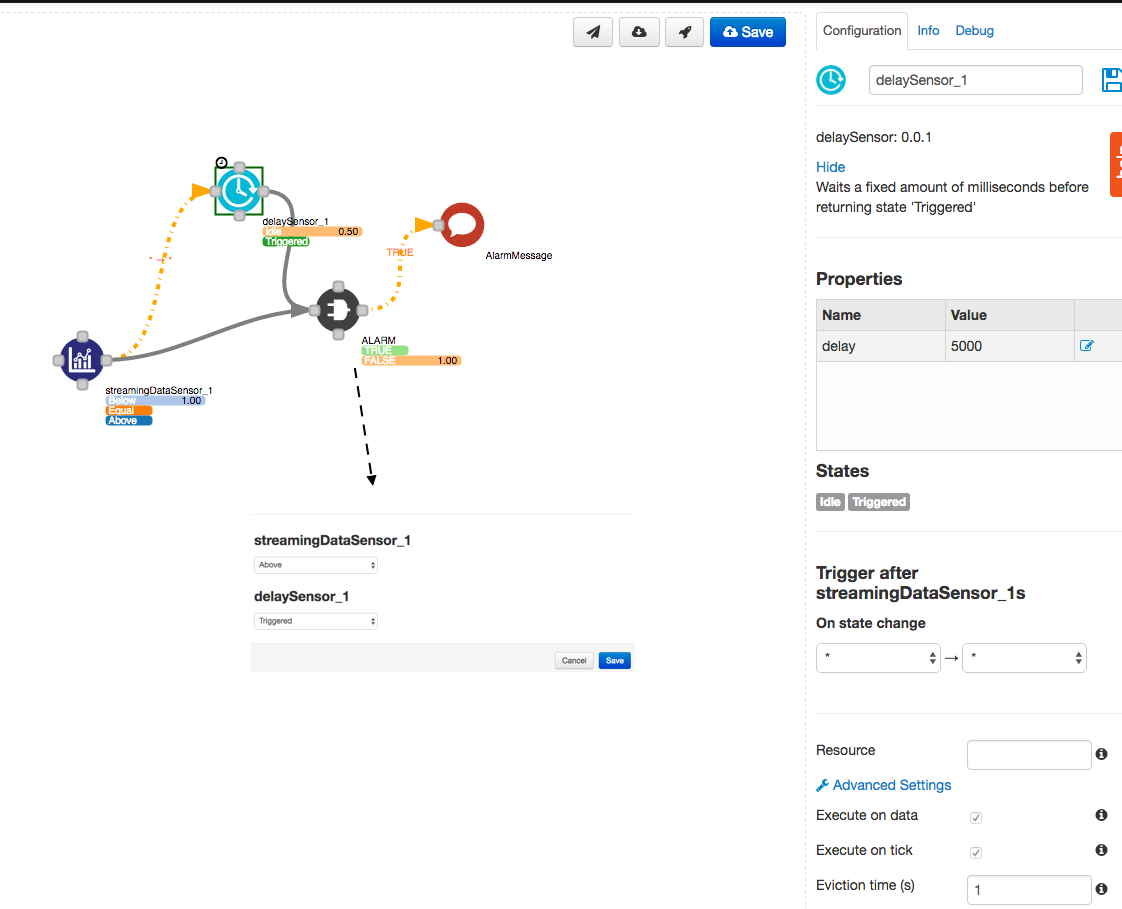
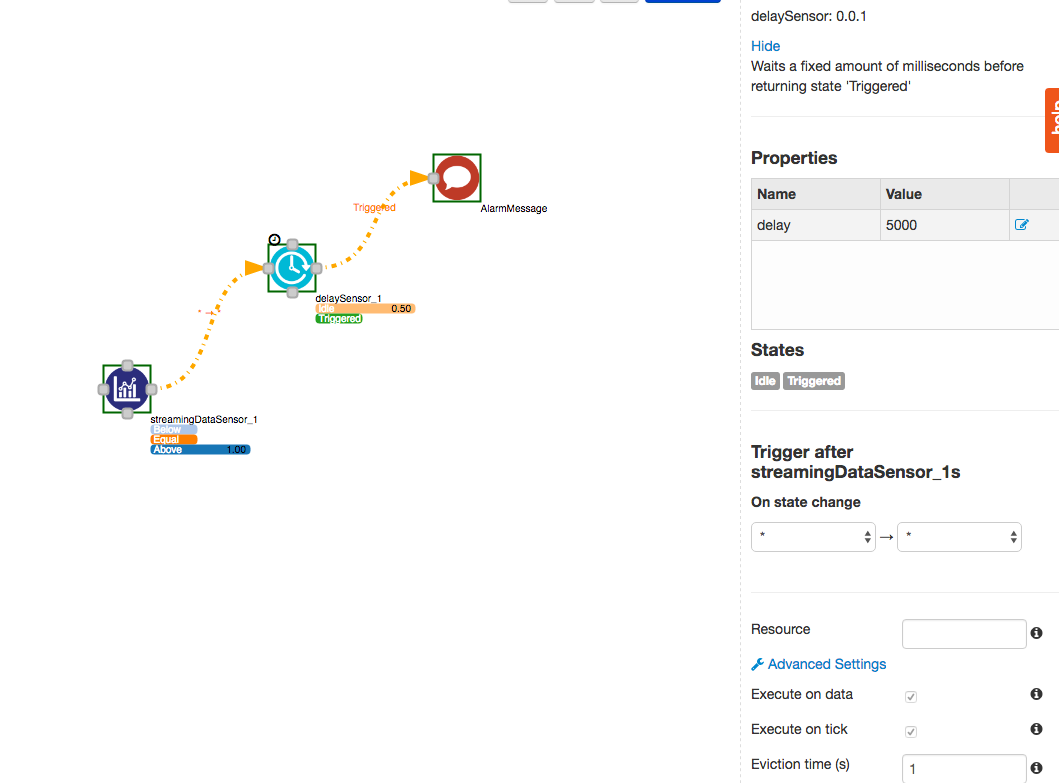
no data rule

diff --git a/content/rule_patterns/no_data.md b/content/rule_patterns/no_data.md
@@ -1,17 +1,22 @@
 ---
 title: Raise the alarm if there is no data for predifined period of time
 description: Learn how to use Delay node and stream sensor
-weight: 10
+weight: 9
 ---
 
-This [template](rule_patterns/alarm_with_delay/) will be almost exactly the same as the previous one ("Raise the alarm if the stream data is above the threshold for predifined period of time"). So, if you have not studied that one, please read it first.
+Stream node is configured the same way as in one of the previous [examples](rule_patterns/stream_data_threshold_crossing/). In order to track stream sensor state changes, we will use the `Delay` sensor. `Delay` sensor, which comes in default waylay installation is very simple: when it gets executed, it waits for a fixed amount of milliseconds before returning the state `Triggered`. In case that it gets executed again while already counting, it will reset the count and start counting from 0 again. Which means that if the delay period was defined to 5 seconds, and it was executed at `t0`, then again at `t0`+3sec, it will eventualy be in the state `Triggered` after `t0`+8 seconds.
 
-
-Here is our template. Condition to raise the alarm if the stream data is above the threshold for predifined period of time was achived using `AND Gate`, which was configured to be `TRUE` when  both `Delay` sensor was in the state `Triggered` and the `stream` sensor was above the threshold. 
-
-This time we have configured the state transition for `Delay` sensor as * -> * and the **eviction policy**. That would mean that we would fire the alarm if there was no new data coming for longer than 5 seconds. Have a look
+We have configured the state transition of the `Delay` sensor as * -> * and with the **eviction policy**. That would mean that we would fire the alarm if there was no new data coming for longer than 5 seconds. Have a look
 
 ![image](/rules/no_data/no_data1.png)
+
+{{% alert info %}}
+We used **eviction policy** on the delay sensor, which means that we will reset `Triggered` state once it is fired. That way we can search for multiple cases when the stream data stays above the threshold value.
+{{% /alert %}}
+
+{{% alert info %}}
+We also used [**state transition**](/rule_patterns/flow_contrl/) `* -> *` to execute `Delay` node any time new data comes.
+{{% /alert %}}
 
 If we start a task using this template (e.g. saved as "no_data") in the reactive mode like this:
 
@@ -24,7 +29,7 @@ If we start a task using this template (e.g. saved as "no_data") in the reactive
   }' https://sandbox.waylay.io/api/tasks
  ```
 
-and if push data via [broker](/api/broker-and-storage/) which has this sequence of temperatures (23, 3), with the delay of 6 seconds in between, we shall see the alarm (attached to the gate) every time after 5 seconds.
+and if push data via [broker](/api/broker-and-storage/) we will notice that we will have an alarm after 5 seconds.
 
 ```
 curl --user apiKey:apiSecret -H "Content-Type: application/json" -X POST  
@@ -35,22 +40,16 @@ curl --user apiKey:apiSecret -H "Content-Type: application/json" -X POST
        "domain": "sandbox.waylay.io"
     }'
   "https://data.waylay.io/messages?store=false"
-sleep 6
-curl --user apiKey:apiSecret -H "Content-Type: application/json" -X POST  
-  -d '{ 
-       "temperature": 3, 
-       "humidity": 73, 
-       "resource": "testresource", 
-       "domain": "sandbox.waylay.io"
-    }'
- "https://data.waylay.io/messages?store=false"
  ```
 
-Let's now send some more data. We will be pushing data that is below and above the threshold. Have a look:
+Let's now send some more data. We will be pushing data with different frequency. Exact values are not important. Have a look, this is the stream data view:
 
-![image](/rules/no_data/no_data_alarm.png)
+![image](/rules/no_data/no_data_stream.png)
+
+And this is the state view of the same data stream:
+![image](/rules/no_data/no_data_states.png)
 
 {{% alert info %}}
-What we can observed from the state diagram is that we had Gate in `TRUE` (alarm) state only when new data was not coming for longer than 5 seconds. 
+What we can observed from the state diagram is that we have the `Delay` sensor in the `Triggered` (alarm) state when there was no new data for longer than 5 seconds. 
 {{% /alert %}}
 

diff --git a/content/rule_patterns/alarm_with_delay.md b/content/rule_patterns/alarm_with_delay.md
@@ -1,13 +1,16 @@
 ---
 title: Raise the alarm if the stream data is above the threshold for predifined period of time
 description: Learn how to use Delay node
-weight: 9
+weight: 10
 ---
 
-Stream node is configured the same way as in one of the previous [examples](rule_patterns/stream_data_threshold_crossing/). In order to track stream sensor state changes, we will use the `Delay` sensor. `Delay` sensor, which comes in default waylay installation is very simple: when it gets executed, it waits for a fixed amount of milliseconds before returning the state `Triggered`. In case that it gets executed again while already counting, it will reset the count and start counting from 0 again. Which means that if the delay period was defined to 5 seconds, and it was executed at `t0`, then again at `t0`+3sec, it will eventualy be in the state `Triggered` after `t0`+8 seconds.
+This example builds on top of the previous [one](rule_patterns/no_data/). If you have not studied that one, please read it first.
+In order to track stream sensor state changes, we will use the `Delay` sensor. `Delay` sensor, which comes in default waylay installation is very simple: when it gets executed, it waits for a fixed amount of milliseconds before returning the state `Triggered`. In case that it gets executed again while already counting, it will reset the count and start counting from 0 again. Which means that if the delay period was defined to 5 seconds, and it was executed at `t0`, then again at `t0`+3sec, it will eventualy be in the state `Triggered` after `t0`+8 seconds.
 
 
 Here is our template. Condition to raise the alarm if the stream data is above the threshold for predifined period of time was achived using `AND Gate`, which was configured to be `TRUE` when  both `Delay` sensor was in the state `Triggered` and the `stream` sensor was above the threshold. 
+
+We have configured the state transition of the `Delay` sensor as * -> Above and with the **eviction policy**. That would mean that we would fire the alarm if the stream data was above the threshold longer than 5 seconds. Have a look
 
 ![image](/rules/alarm_delay/alarm_delay1.png)
 
@@ -17,10 +20,6 @@ We used **eviction policy** on the delay sensor, which means that we will reset 
 
 {{% alert info %}}
 We also used [**state transition**](/rule_patterns/flow_contrl/) `* -> Above` to trigger Delay node if the stream data was above the threshold.
-{{% /alert %}}
-
-{{% alert info %}}
-What if we had configured the state transition to * -> *? That would mean that we would fire the alarm if there was no new data coming!! That we will see in the next post.
 {{% /alert %}}
 
 If we start a task using this template (e.g. saved as "delay") in the reactive mode like this:
